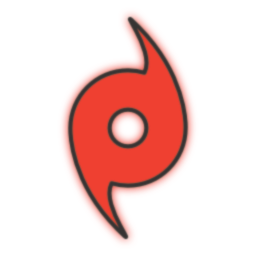
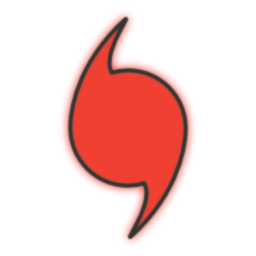
fix(hurricane) correct the orientation

Changed region(s): [[0.25, 0.5312, 0.75, 0.9375], [0.25, 0.0625, 0.75, 0.4688], [0.4062, 0.4062, 0.5938, 0.5938]]

diff --git a/index.html b/index.html
@@ -1,9 +1,7 @@
 <html>
 <head>
     <style>
-        body {
-            overflow: hidden;
-        }
+        html, body { overflow: hidden; }
         .icon {
             opacity:1;
             position:absolute;
@@ -16,9 +14,9 @@
             -moz-animation:spin 4s linear infinite;
             animation:spin 4s linear infinite;
         }
-        @-moz-keyframes spin { 100% { -moz-transform: rotate(360deg); } }
-        @-webkit-keyframes spin { 100% { -webkit-transform: rotate(360deg); } }
-        @keyframes spin { 100% { -webkit-transform: rotate(360deg); transform:rotate(360deg); } }
+        @-moz-keyframes spin { 100% { -moz-transform: rotate(-360deg); } }
+        @-webkit-keyframes spin { 100% { -webkit-transform: rotate(-360deg); } }
+        @keyframes spin { 100% { -webkit-transform: rotate(360deg); transform:rotate(-360deg); } }
         @keyframes fadeIn { from { opacity: 0; } to   { opacity: 1; } }
         @keyframes fadeOut { from { opacity: 1; } to   { opacity: 0; } }
         #map {
